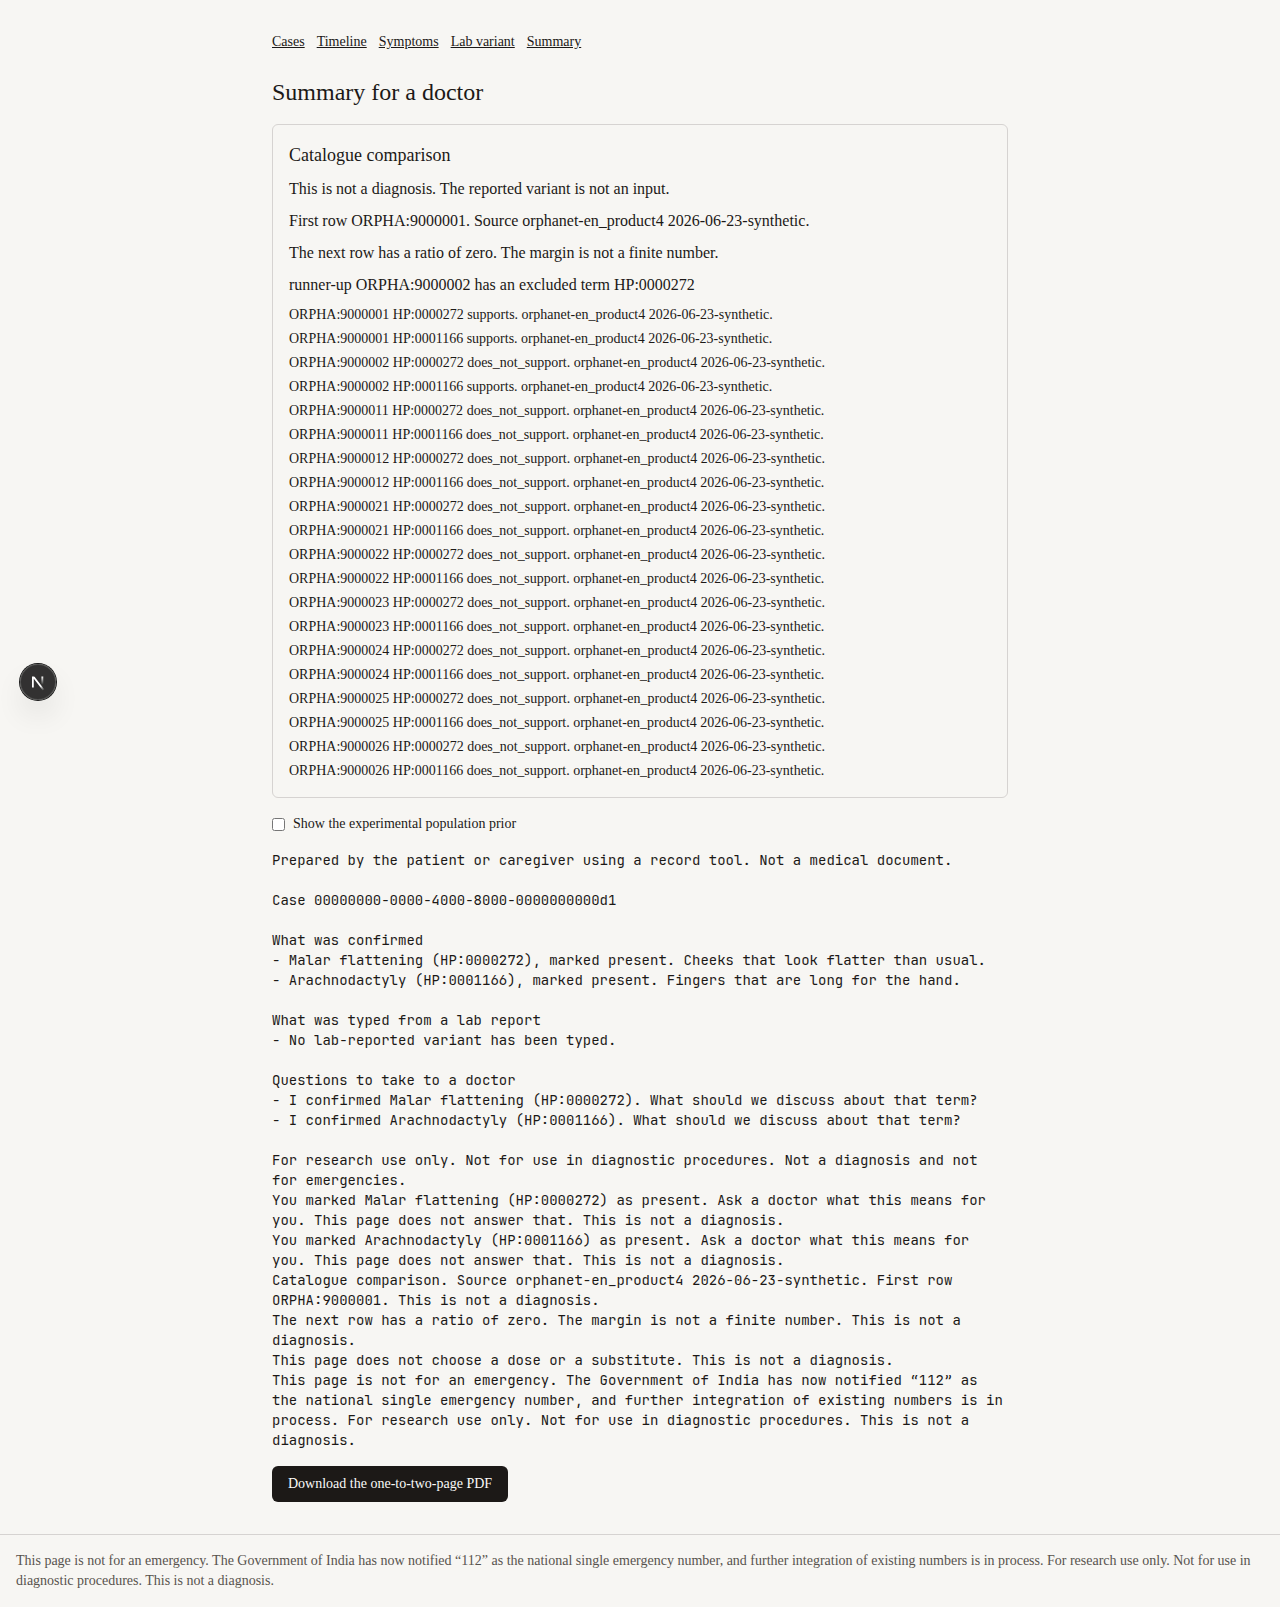
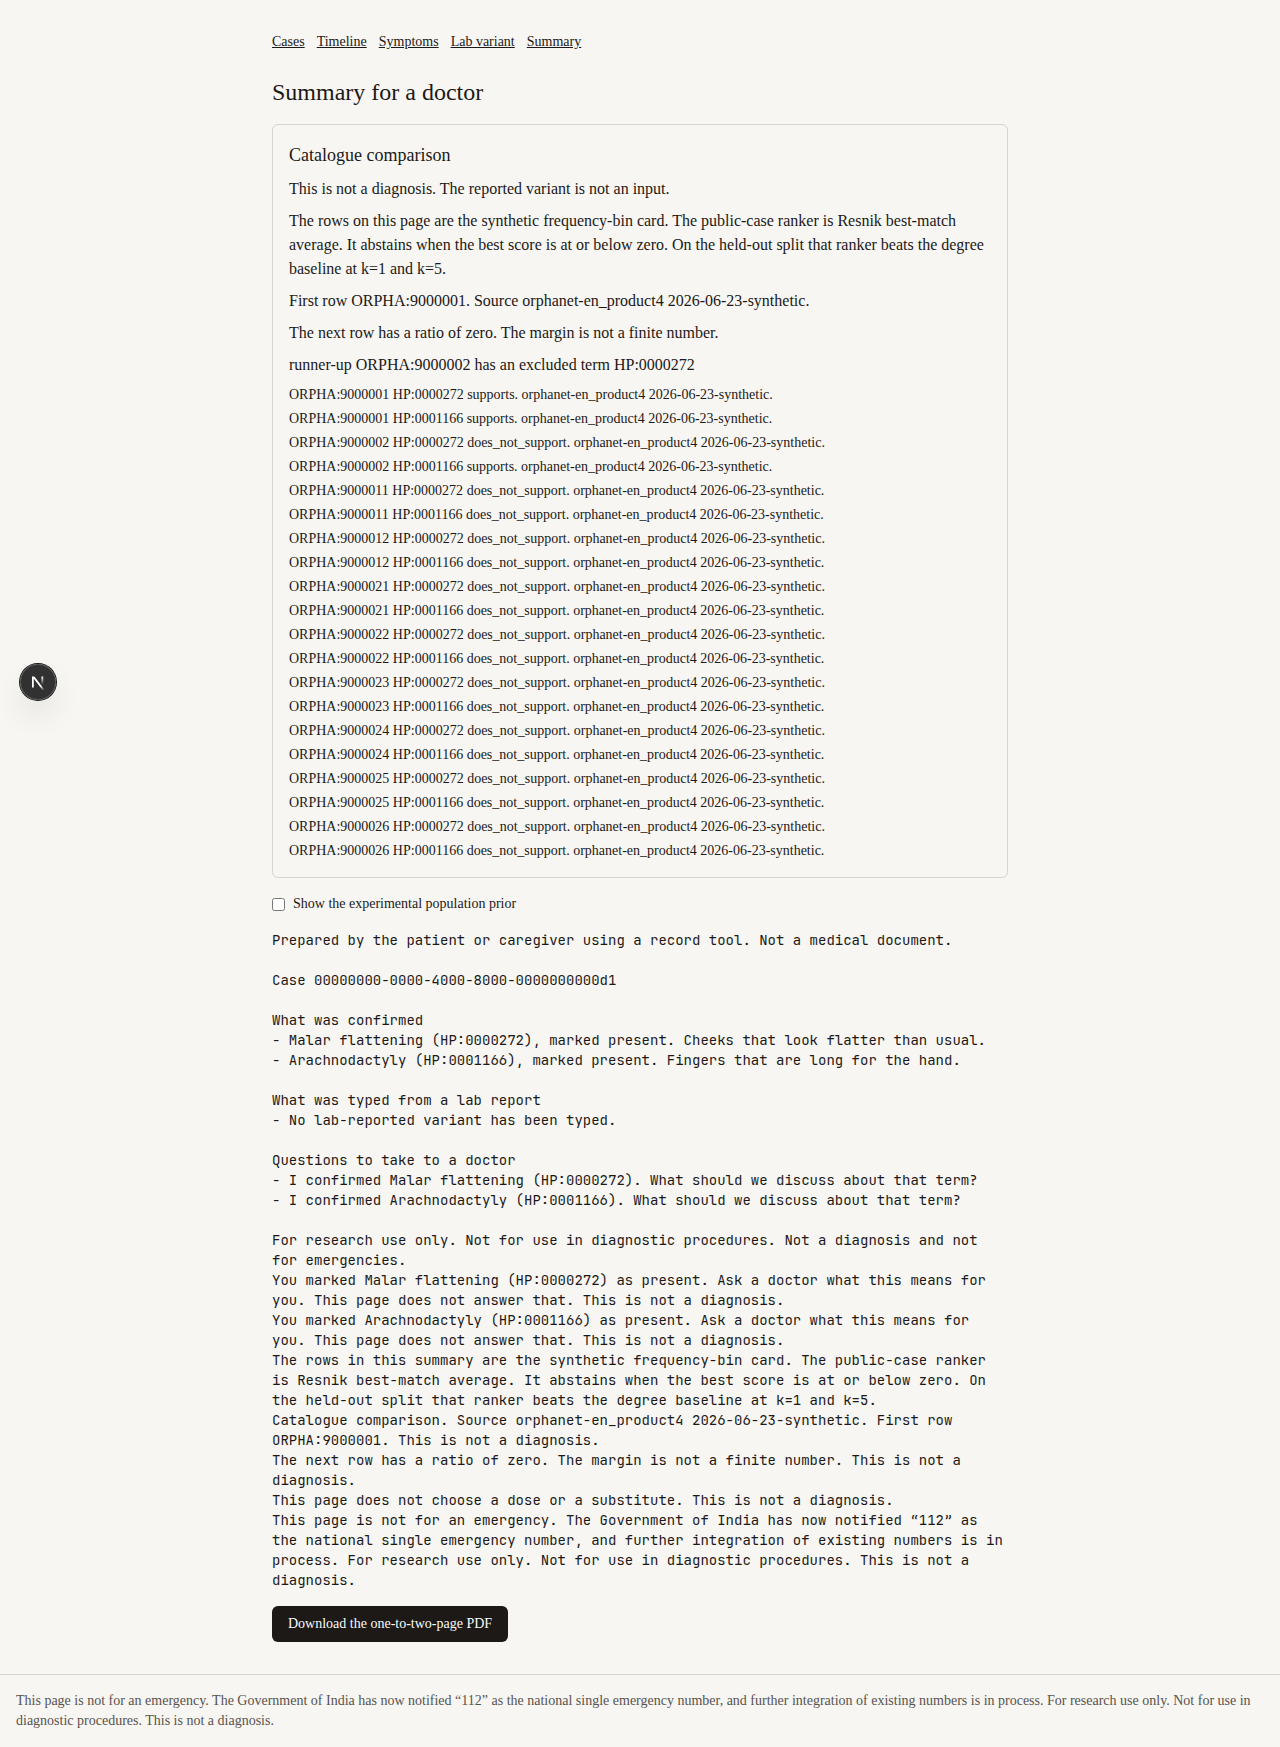
State the held-out ranker result on the summary page.
The API summary now carries the same plain sentence as the comparison panel. make test is 239 passed and 1 skipped, and the cold browser run passed.

Changed region(s): [[0.0, 0.0, 0.9688, 0.9956], [0.0, 0.3734, 0.0625, 0.4356]]

diff --git a/services/api/app/routes/summary.py b/services/api/app/routes/summary.py
@@ -93,6 +93,14 @@ def _abstain_phrase(
     raise ValueError(unknown)
 
 
+PUBLIC_RANKER_SENTENCE = (
+    "The rows in this summary are the synthetic frequency-bin card. "
+    "The public-case ranker is Resnik best-match average. "
+    "It abstains when the best score is at or below zero. "
+    "On the held-out split that ranker beats the degree baseline at k=1 and k=5."
+)
+
+
 def _append_comparison(
     pieces: list[str],
     spans: list[tuple[int, int, str]],
@@ -101,6 +109,7 @@ def _append_comparison(
     evidence = report.get("evidence") or []
     if not evidence:
         return
+    _append(pieces, spans, PUBLIC_RANKER_SENTENCE, [])
     first = evidence[0]
     if report.get("abstained"):
         reason = report.get("abstain_reason") or "no_scoreable_disease"

diff --git a/docs/FINISH-report.md b/docs/FINISH-report.md
@@ -66,9 +66,9 @@ The comparison panel states that the rows on the page are the synthetic frequenc
 
 ## Measured on this revision
 
-- `make test`: 229 passed, 1 skipped. The skipped test is the opt-in live model smoke. It was not run. The OpenAPI drift tests passed in this run. Gemini-to-OpenRouter `:free` coverage is the stubbed 429 tests only.
-- Cold `make e2e`: 1 passed (10.8s).
-- `d1_eval bars`: exit 0. Frequency-bin packet top-1 1395/4815. It does not beat the degree baseline.
+- `make test`: 239 passed, 1 skipped. The skipped test is the opt-in live model smoke. It was not run. The OpenAPI drift tests passed in this run. Gemini-to-OpenRouter `:free` coverage is the stubbed 429 tests only.
+- Cold `make e2e`: 1 passed (11.3s). The comparison panel shows the public-case ranker sentence. The abstain page does not show a numeric margin.
+- `d1_eval heldout`: exit 0. Resnik best-match average on the 925 test packets beats the degree baseline at k=1 (419/925 vs 327/925) and at k=5 (614/925 vs 533/925). Frequency-bin packet top-1 stays 1395/4815 and does not beat the degree baseline.
 
 ## Contract, prior, and model client
 
